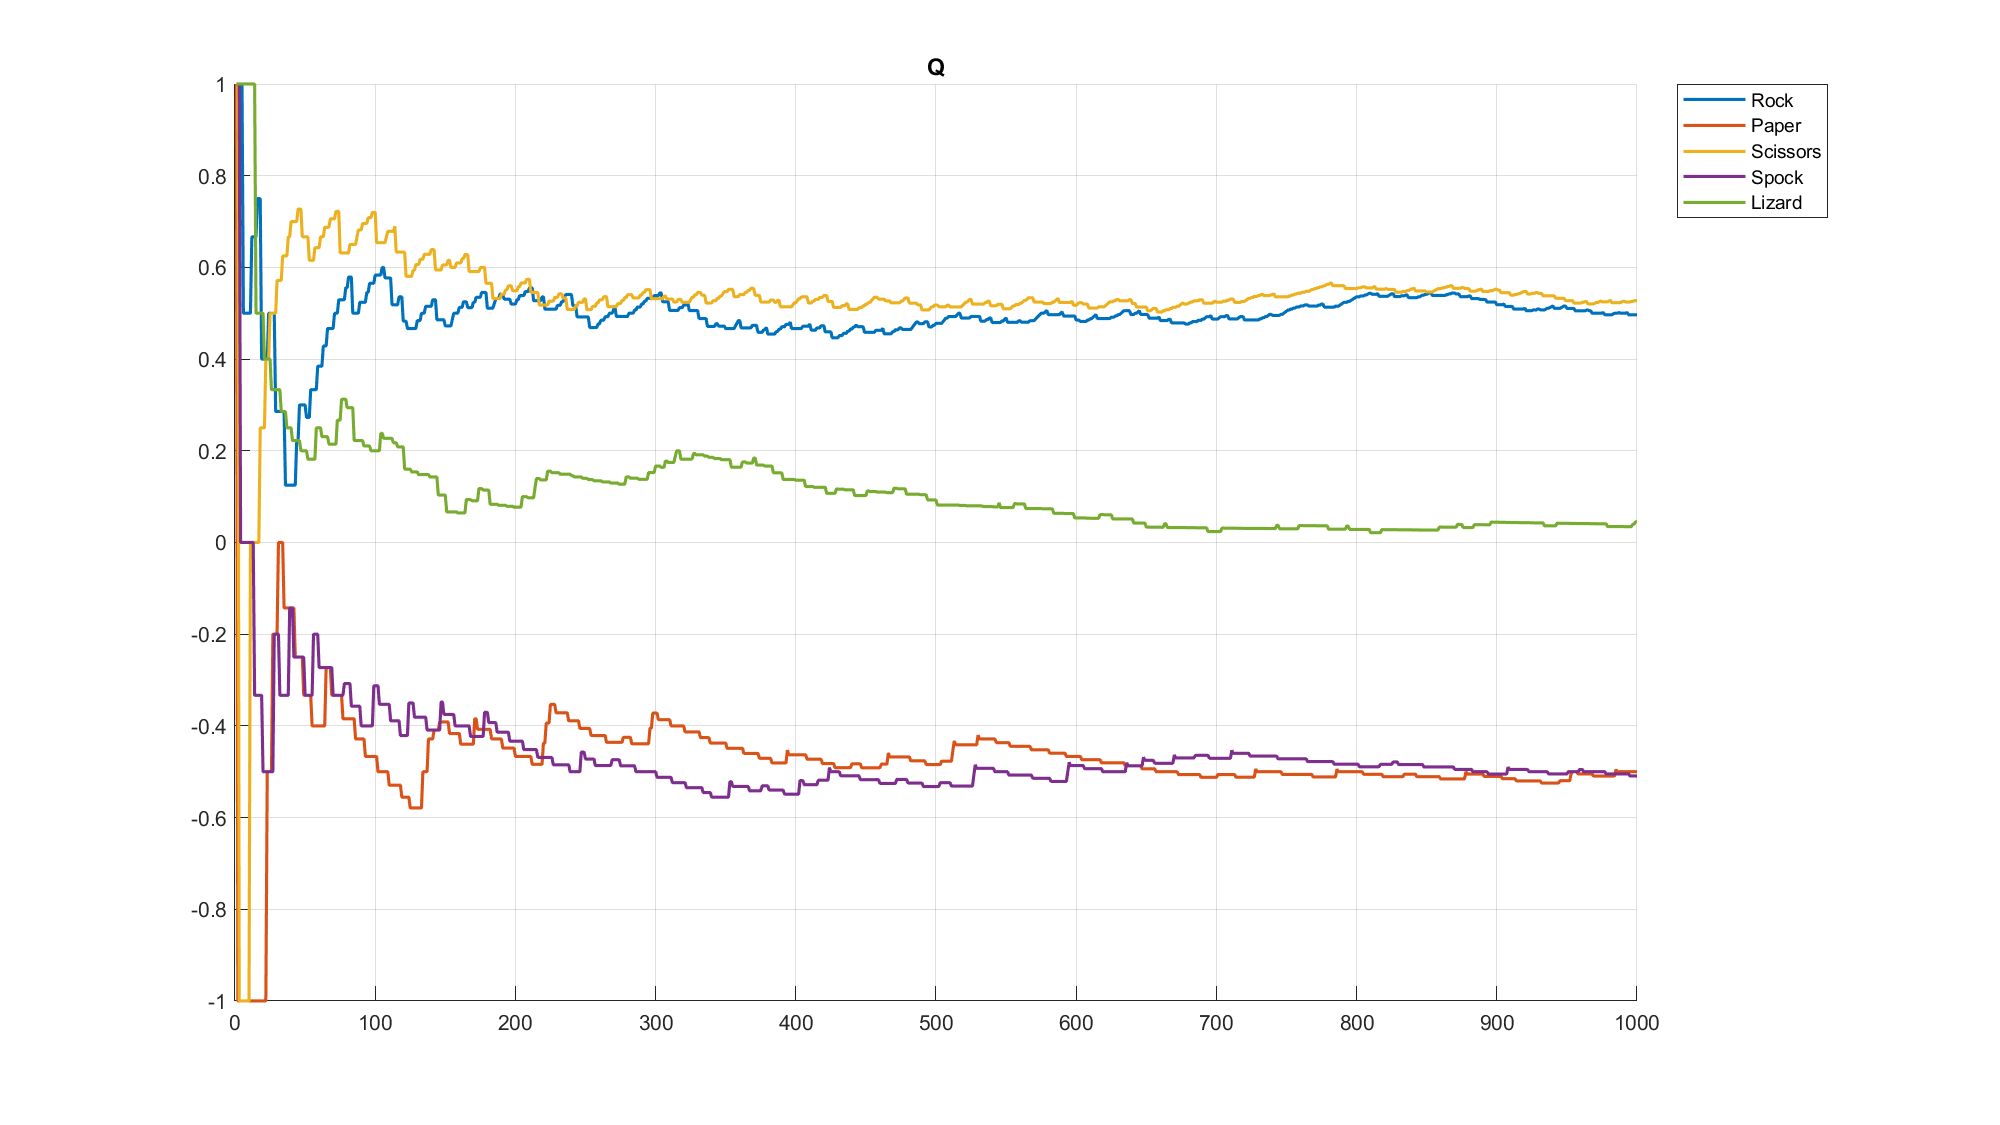
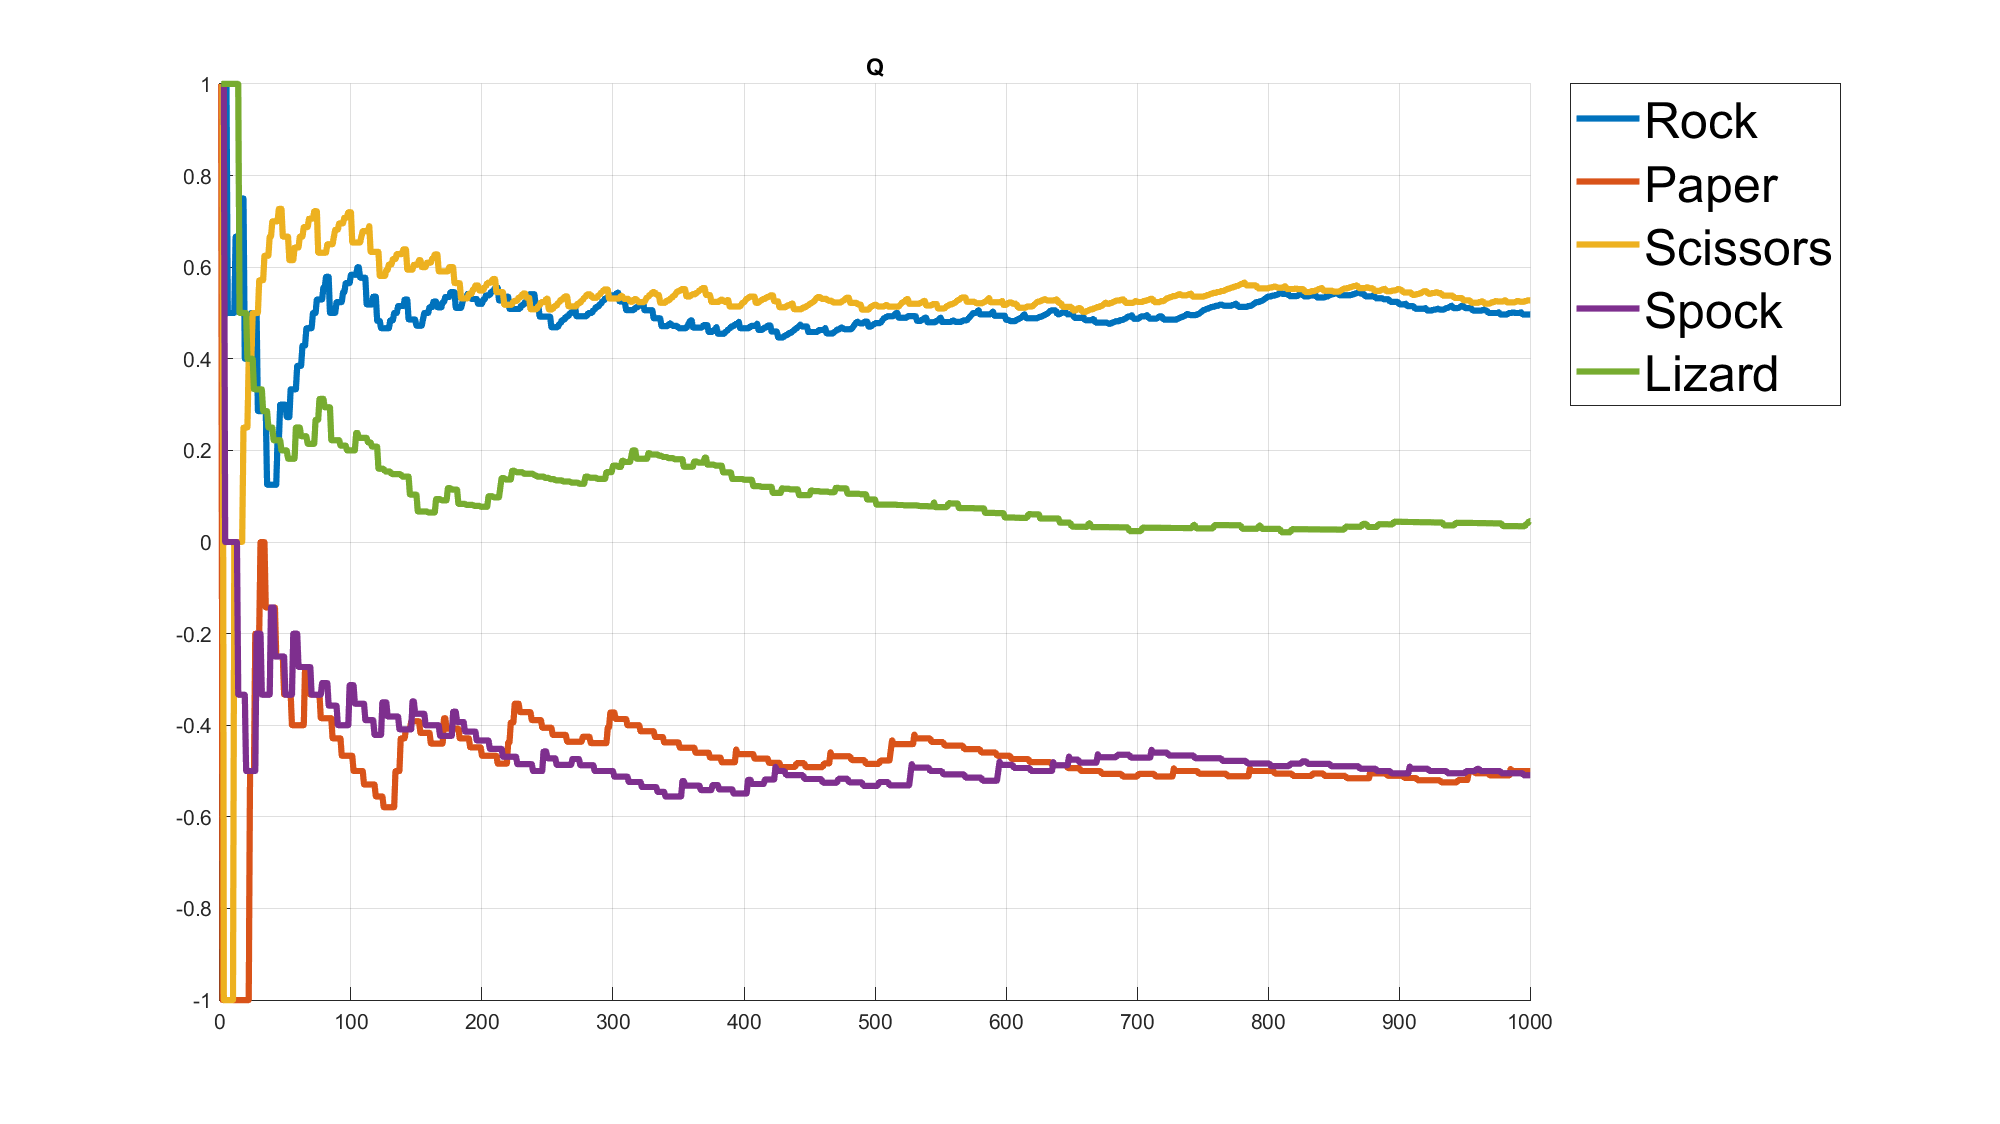
#18 : graphs for non equiprobable stationary case

diff --git a/rel1/stationary_no_equiprobable_case/preference_update.m b/rel1/stationary_no_equiprobable_case/preference_update.m
@@ -51,15 +51,16 @@ figure('Position', [0 0 1280 720])
 hold on
 % Graph content
 title('H')
-plot(historyH', 'LineWidth', 1.5)
+plot(historyH', 'LineWidth', 3)
 lgn = legend('Rock', 'Paper', 'Scissors', 'Spock', 'Lizard');
+lgn.FontSize = 24;
 set(gca, 'ColorOrder', colors(5))
 % Fixed
 grid on
 lgn.Location = 'northeastoutside';
 hold off
 % Save graph
-saveas(gcf, "graphs/preference_update/Q", "png")
+saveas(gcf, "graphs/preference_update/H", "png")
 %--------------------------------------------------------------------------
 
 %-----------------plot the history of W------------------------------------
@@ -68,10 +69,11 @@ figure('Position', [0 0 1280 720])
 hold on
 % Graph content
 title('W')
-plot(historyW(1,:)', 'LineWidth', 1.5)
-plot(historyW(2,:)', 'LineWidth', 1.5, 'LineStyle','--')
-plot(historyW(3,:)', 'LineWidth', 1.5, 'LineStyle',':')
+plot(historyW(1,:)', 'LineWidth', 3)
+plot(historyW(2,:)', 'LineWidth', 3, 'LineStyle','--')
+plot(historyW(3,:)', 'LineWidth', 3, 'LineStyle',':')
 lgn = legend('Wins_{agent}', 'Wins_{bandit}', 'Draws');
+lgn.FontSize = 24;
 set(gca, 'ColorOrder', colors(3))
 % Fixed
 grid on

diff --git a/rel1/stationary_no_equiprobable_case/UCB.m b/rel1/stationary_no_equiprobable_case/UCB.m
@@ -46,8 +46,9 @@ figure('Position', [0 0 1280 720])
 hold on
 % Graph content
 title('Q')
-plot(historyQ', 'LineWidth', 1.5)
+plot(historyQ', 'LineWidth', 3)
 lgn = legend('Rock', 'Paper', 'Scissors', 'Spock', 'Lizard');
+lgn.FontSize = 24;
 set(gca, 'ColorOrder', colors(5))
 % Fixed
 grid on
@@ -63,8 +64,9 @@ figure('Position', [0 0 1280 720])
 hold on
 % Graph content
 title('N')
-plot(historyN', 'LineWidth', 1.5)
+plot(historyN', 'LineWidth', 3)
 lgn = legend('Rock', 'Paper', 'Scissors', 'Spock', 'Lizard');
+lgn.FontSize = 24;
 set(gca, 'ColorOrder', colors(5))
 % Fixed
 grid on
@@ -80,10 +82,11 @@ figure('Position', [0 0 1280 720])
 hold on
 % Graph content
 title('W')
-plot(historyW(1,:)', 'LineWidth', 1.5)
-plot(historyW(2,:)', 'LineWidth', 1.5, 'LineStyle','--')
-plot(historyW(3,:)', 'LineWidth', 1.5, 'LineStyle',':')
+plot(historyW(1,:)', 'LineWidth', 3)
+plot(historyW(2,:)', 'LineWidth', 3, 'LineStyle','--')
+plot(historyW(3,:)', 'LineWidth', 3, 'LineStyle',':')
 lgn = legend('Wins_{agent}', 'Wins_{bandit}', 'Draws');
+lgn.FontSize = 24;
 set(gca, 'ColorOrder', colors(3))
 % Fixed
 grid on

diff --git a/rel1/stationary_no_equiprobable_case/e_greedy.m b/rel1/stationary_no_equiprobable_case/e_greedy.m
@@ -53,8 +53,9 @@ figure('Position', [0 0 1280 720])
 hold on
 % Graph content
 title('Q')
-plot(historyQ', 'LineWidth', 1.5)
+plot(historyQ', 'LineWidth', 3)
 lgn = legend('Rock', 'Paper', 'Scissors', 'Spock', 'Lizard');
+lgn.FontSize = 24;
 set(gca, 'ColorOrder', colors(5))
 % Fixed
 grid on
@@ -70,8 +71,9 @@ figure('Position', [0 0 1280 720])
 hold on
 % Graph content
 title('N')
-plot(historyN', 'LineWidth', 1.5)
+plot(historyN', 'LineWidth', 3)
 lgn = legend('Rock', 'Paper', 'Scissors', 'Spock', 'Lizard');
+lgn.FontSize = 24;
 set(gca, 'ColorOrder', colors(5))
 % Fixed
 grid on
@@ -87,10 +89,11 @@ figure('Position', [0 0 1280 720])
 hold on
 % Graph content
 title('W')
-plot(historyW(1,:)', 'LineWidth', 1.5)
-plot(historyW(2,:)', 'LineWidth', 1.5, 'LineStyle','--')
-plot(historyW(3,:)', 'LineWidth', 1.5, 'LineStyle',':')
+plot(historyW(1,:)', 'LineWidth', 3)
+plot(historyW(2,:)', 'LineWidth', 3, 'LineStyle','--')
+plot(historyW(3,:)', 'LineWidth', 3, 'LineStyle',':')
 lgn = legend('Wins_{agent}', 'Wins_{bandit}', 'Draws');
+lgn.FontSize = 24;
 set(gca, 'ColorOrder', colors(3))
 % Fixed
 grid on

diff --git a/rel1/stationary_equiprobable_case/e_greedy_s_ep.m b/rel1/stationary_equiprobable_case/e_greedy_s_ep.m
@@ -2,11 +2,12 @@ clear
 close all
 clc
 
-rng(42) % set the random seed
+rng(422) % set the random seed
 
 A = 5; % dimension action space
-epsilon = 0.1; % probability we take a random action
-lengthEpisode = 20000; % number of actions to take
+epsilon = 3e-1; % probability we take a random action
+alpha = 5e-3;
+lengthEpisode = 100000; % number of actions to take
 
 Q = ones(A, 1); % estimate of the value of actions
 N = zeros(A, 1); % number of times we take each action
@@ -46,7 +47,7 @@ for i = 1:lengthEpisode
 
     % update N and Q
     N(agent_int) = N(agent_int) + 1;
-    Q(agent_int) = Q(agent_int) + 1/N(agent_int)*(r - Q(agent_int));
+    Q(agent_int) = Q(agent_int) + alpha*(r - Q(agent_int));
 
     % save the history
     historyQ(:,i) = Q;

diff --git a/rel1/stationary_equiprobable_case/PreferenceUpdates_s_ep.m b/rel1/stationary_equiprobable_case/PreferenceUpdates_s_ep.m
@@ -6,7 +6,7 @@ rng(42) % set the random seed
 
 A = 5; % dimension action space
 alpha = 1e-2; % update step for preferences
-beta = 1e-1; % update step for rewards
+beta = 2e-2; % update step for rewards
 lengthEpisode = 20000; % number of actions to take
 
 H = zeros(A, 1); % preferences of actions
